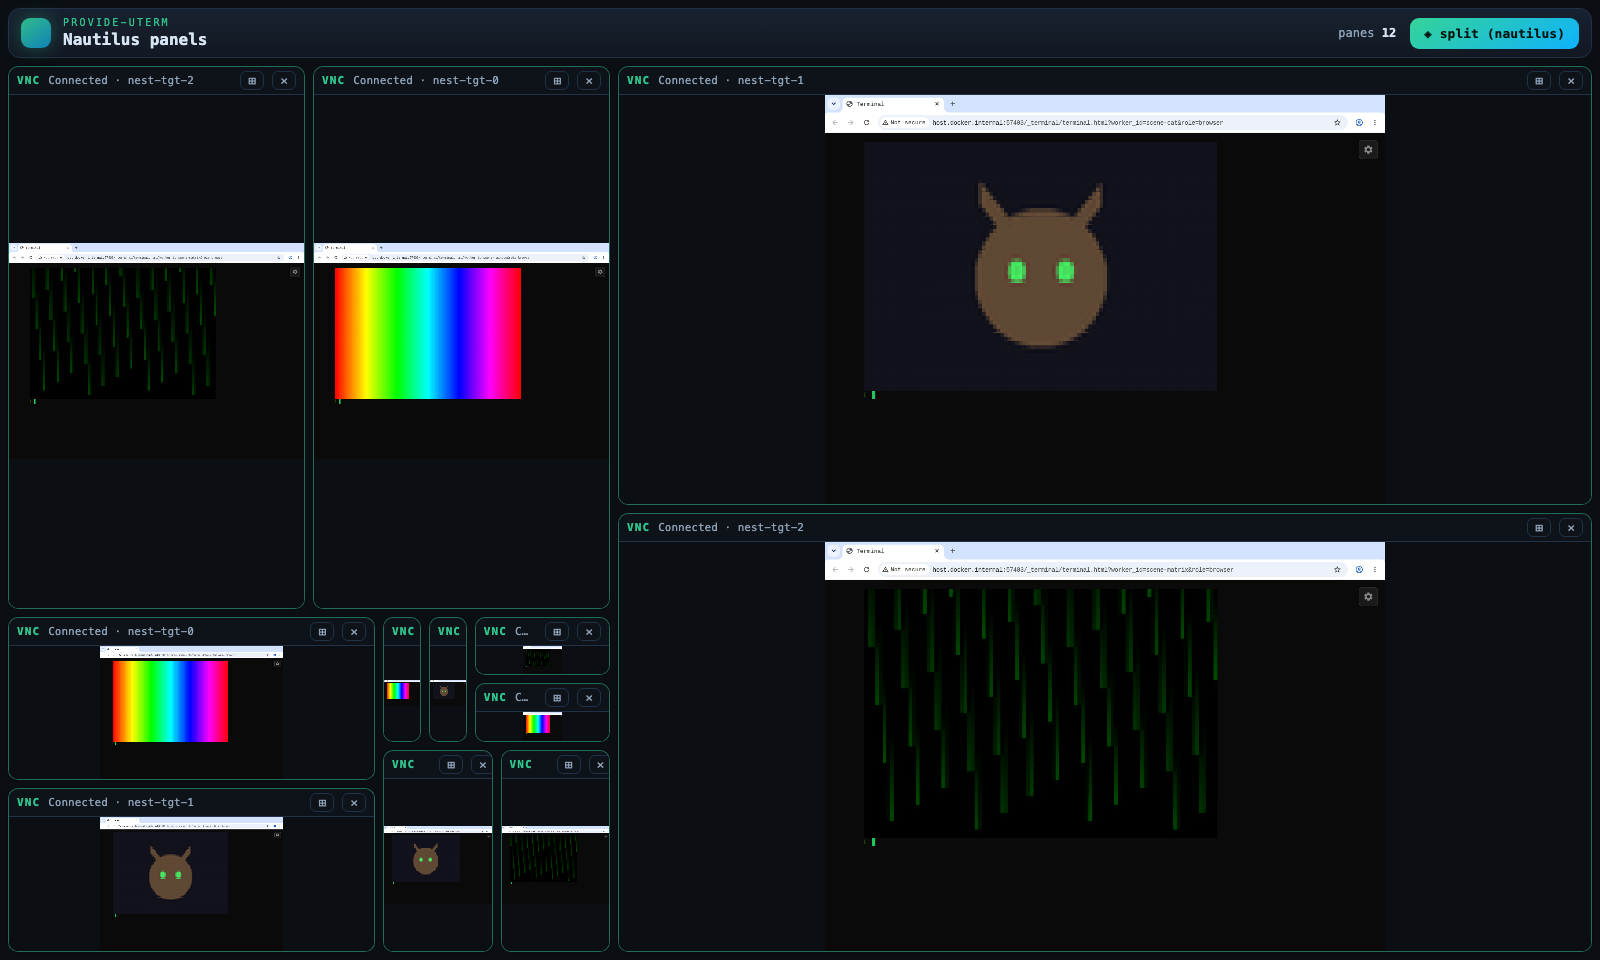
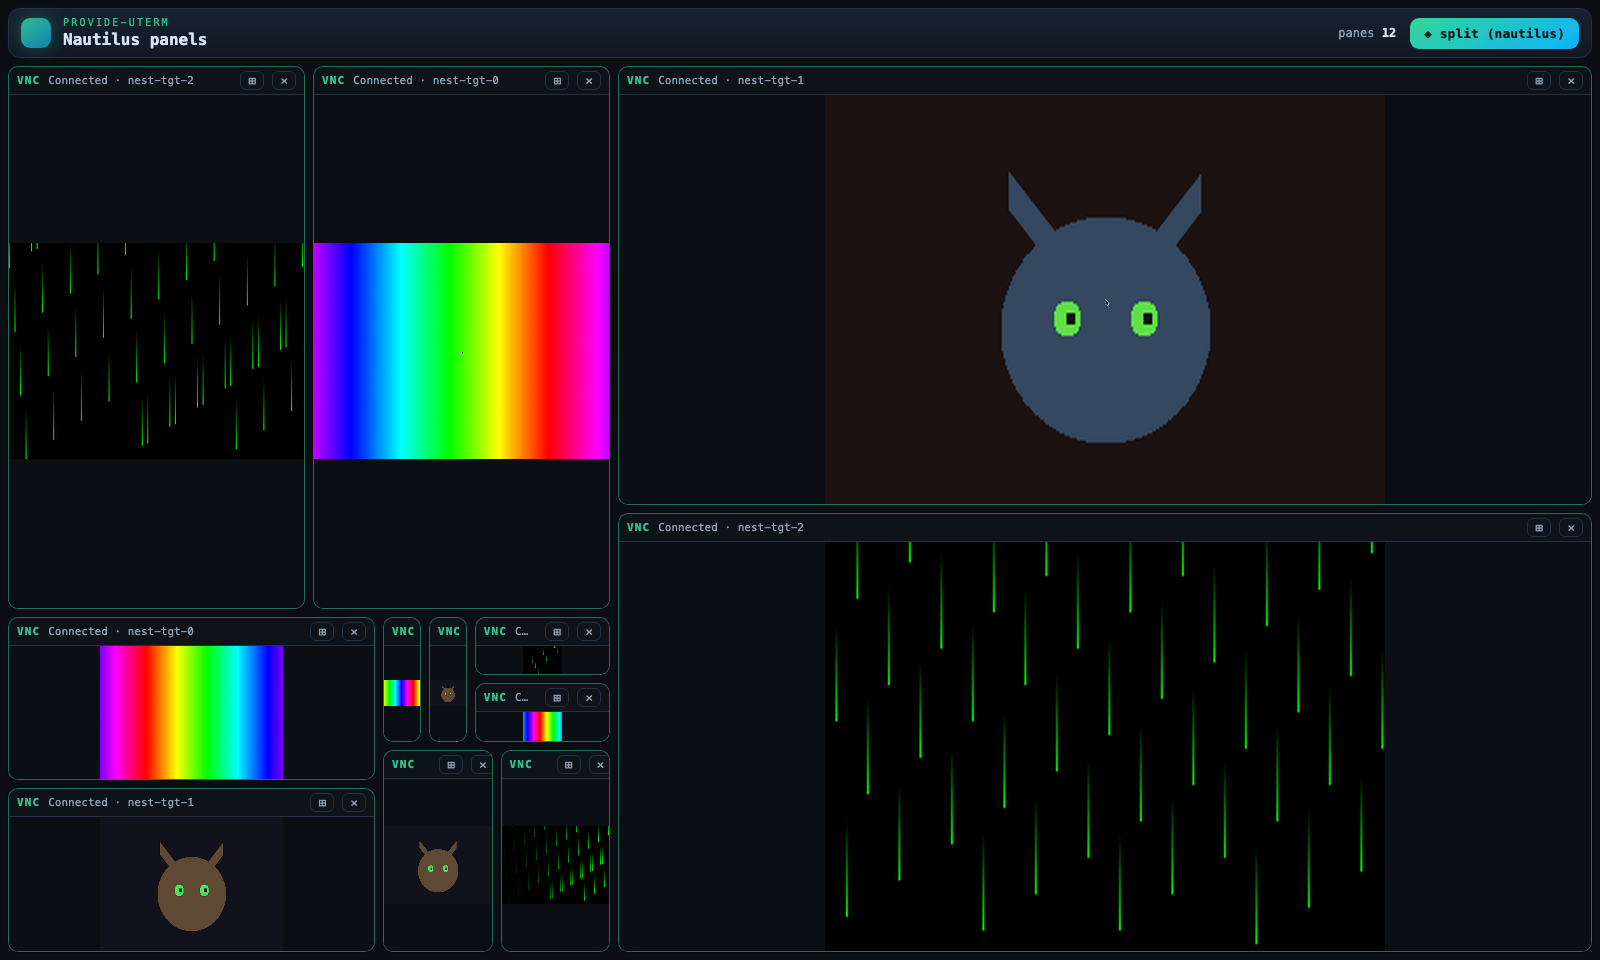
feat(demo): play distinct animated scenes via mpv in the nautilus VNC panes
Each lab now plays its scene GIF (rainbow / cat / matrix) with mpv, added
to the vnc-lab image and driven by a SCENE_MEDIA entrypoint branch. mpv
blits whole decoded frames to Xvfb, so x11vnc streams clean, tear-free
motion — unlike a nested Chromium (never presents animation to Xvfb) or a
software terminal (tears mid cell-draw, both investigated and rejected).
The recorder generates the GIFs, docker-cp's each into its lab, and waits
for all panes to finish connecting before the still. Combined with the
relay update-driver, the tiling now shows multiple distinct VNC feeds that
actually animate.

diff --git a/scripts/record_uterm_vnc_panels_demo.py b/scripts/record_uterm_vnc_panels_demo.py
@@ -3,14 +3,16 @@
 # SPDX-FileCopyrightText: Copyright (c) 2025-2026 provide.io llc. All rights reserved.
 # SPDX-License-Identifier: AGPL-3.0-or-later
 #
-"""Record the recursive "nautilus" tiling panels page with distinct scenes.
+"""Record the recursive "nautilus" tiling panels page with distinct live scenes.
 
-Each of the three lab RFB targets runs a *different* ushell session that has
-rendered a different full-screen scene (a rainbow gradient, a cat, a matrix
-rain) via the ``render`` command. The nautilus panes fan out across the three
-targets, so the tiling clearly shows multiple *distinct* VNC browsers in play —
-not the same terminal repeated. Panes shrink (font and all) as the spiral winds
-inward via noVNC's scale-viewport.
+Each of the three lab RFB targets natively plays a *different* animated scene (a
+rainbow gradient, a blinking cat, matrix rain) via mpv, which blits whole decoded
+frames to Xvfb — so x11vnc streams clean, tear-free motion to the already
+connected noVNC pane. (A nested Chromium never presents animation frames to Xvfb
+at all, and a software terminal tears mid-draw; mpv avoids both.) The nautilus
+panes fan out across the three targets, so the tiling shows multiple *distinct*
+VNC feeds that actually animate. Panes shrink as the spiral winds inward via
+noVNC's scale-viewport.
 
 Usage (repo root)::
 
@@ -26,7 +28,9 @@ import os
 import subprocess
 import sys
 import time
+from contextlib import suppress
 from pathlib import Path
+from typing import Any
 
 _SCRIPTS = Path(__file__).resolve().parent
 if str(_SCRIPTS) not in sys.path:
@@ -36,77 +40,137 @@ import prove_vnc_lab as vnc_lab  # noqa: E402
 import record_uterm_vnc_demo_video as base  # noqa: E402
 import record_uterm_vnc_nested_demo as nested  # noqa: E402
 
-# (session_id, display label, scene image filename). One per lab target so each
-# VNC pane shows a visibly different scene.
+# (id, display label, scene GIF filename). One per lab target so each VNC pane
+# shows a visibly different *animated* scene; mpv loops the GIF natively in the
+# lab, so the panes actually play.
 SCENES = [
-    ("scene-rainbow", "Rainbow", "rainbow.png"),
-    ("scene-cat", "Cat", "cat.png"),
-    ("scene-matrix", "Matrix", "matrix.png"),
+    ("scene-rainbow", "Rainbow", "rainbow.gif"),
+    ("scene-cat", "Cat", "cat.gif"),
+    ("scene-matrix", "Matrix", "matrix.gif"),
 ]
+
+# Animated-GIF geometry. mpv decodes the GIF and blits whole frames to X, so the
+# per-frame duration (≈14 fps) drives smooth, tear-free playback; mpv scales the
+# clip up to the lab framebuffer.
+_SCENE_W, _SCENE_H = 320, 180
+_SCENE_FRAMES = 16
+_SCENE_DURATION_MS = 70
+
+
+def _save_gif(frames: list[Any], path: Path) -> None:
+    """Write *frames* as a looping animated GIF at the shared scene cadence."""
+    frames[0].save(
+        path,
+        save_all=True,
+        append_images=frames[1:],
+        duration=_SCENE_DURATION_MS,
+        loop=0,
+        disposal=2,
+    )
+
+
+def _rainbow_frames() -> list[Any]:
+    """Hue sweep that scrolls one full cycle across the animation (looping)."""
+    from PIL import Image
+
+    w, h, n = _SCENE_W, _SCENE_H, _SCENE_FRAMES
+    out: list[Any] = []
+    for f in range(n):
+        img = Image.new("RGB", (w, h))
+        px = img.load()
+        phase = f / n
+        for x in range(w):
+            r, g, b = colorsys.hsv_to_rgb((x / w + phase) % 1.0, 1.0, 1.0)
+            col = (int(r * 255), int(g * 255), int(b * 255))
+            for y in range(h):
+                px[x, y] = col
+        out.append(img)
+    return out
+
+
+def _cat_frames() -> list[Any]:
+    """Cat face with green eyes: pupils slide side to side, with a mid-loop blink.
+
+    Every frame differs (moving pupils) so PIL keeps all 16 — smooth motion, not
+    a collapsed near-static GIF.
+    """
+    import math
+
+    from PIL import Image
+
+    w, h, n = _SCENE_W, _SCENE_H, _SCENE_FRAMES
+    cx, base_cy = w // 2, h // 2 + 8
+    out: list[Any] = []
+    for f in range(n):
+        img = Image.new("RGB", (w, h), (18, 18, 28))
+        px = img.load()
+        cy = base_cy + round(7 * math.sin(2 * math.pi * f / n))  # whole head bobs
+        for x in range(w):
+            for y in range(h):
+                if (x - cx) ** 2 + ((y - cy) * 1.2) ** 2 < 60**2:
+                    px[x, y] = (95, 72, 52)
+        for x in range(cx - 55, cx - 15):
+            for y in range(cy - 70, cy - 30):
+                if (x - (cx - 55)) < (y - (cy - 70)) < (x - (cx - 55)) + 18:
+                    px[x, y] = (95, 72, 52)
+        for x in range(cx + 15, cx + 55):
+            for y in range(cy - 70, cy - 30):
+                if ((cx + 55) - x) < (y - (cy - 70)) < ((cx + 55) - x) + 18:
+                    px[x, y] = (95, 72, 52)
+        blink = f % n in (7, 8)  # eyes shut mid-loop
+        pupil_dx = round(3 * math.sin(2 * math.pi * f / n))  # pupils track left↔right
+        for ex in (cx - 22, cx + 22):
+            for x in range(ex - 8, ex + 8):
+                for y in range(cy - 15, cy + 5):
+                    if blink:
+                        if abs(y - (cy - 5)) <= 1 and abs(x - ex) < 7:
+                            px[x, y] = (70, 225, 95)
+                        continue
+                    if (x - ex) ** 2 + (y - (cy - 5)) ** 2 < 8**2:
+                        px[x, y] = (70, 225, 95)
+                    if (x - (ex + pupil_dx)) ** 2 + (y - (cy - 5)) ** 2 < 3**2:
+                        px[x, y] = (12, 20, 14)  # dark pupil
+        out.append(img)
+    return out
+
+
+def _matrix_frames() -> list[Any]:
+    """Green rain whose columns fall (head y advances each frame, tail fades)."""
+    from PIL import Image
+
+    w, h, n = _SCENE_W, _SCENE_H, _SCENE_FRAMES
+    tail = 46
+    out: list[Any] = []
+    for f in range(n):
+        img = Image.new("RGB", (w, h), (0, 0, 0))
+        px = img.load()
+        for x in range(0, w, 6):
+            speed = 6 + (x // 6) % 5
+            head = ((x * 7) + f * speed * (h // n)) % (h + tail) - tail
+            for t in range(tail):
+                y = head - t
+                if 0 <= y < h:
+                    px[x, y] = (0, max(0, 255 - t * 6), 0)
+        out.append(img)
+    return out
 
 
 def _generate_scenes(out_dir: Path) -> None:
-    """Write three distinct scene images the ushell `render` command turns to ANSI."""
-    from PIL import Image
-
+    """Write three distinct *animated* GIF scenes mpv loops in each lab."""
     out_dir.mkdir(parents=True, exist_ok=True)
-    w, h = 320, 180
-    # Rainbow: smooth horizontal hue sweep.
-    rainbow = Image.new("RGB", (w, h))
-    rp = rainbow.load()
-    for x in range(w):
-        r, g, b = colorsys.hsv_to_rgb(x / w, 1.0, 1.0)
-        col = (int(r * 255), int(g * 255), int(b * 255))
-        for y in range(h):
-            rp[x, y] = col
-    rainbow.save(out_dir / "rainbow.png")
-    # Cat: a simple colour cat face on a dark ground.
-    cat = Image.new("RGB", (w, h), (18, 18, 28))
-    cp = cat.load()
-    cx, cy = w // 2, h // 2 + 8
-    for x in range(w):
-        for y in range(h):
-            if (x - cx) ** 2 + ((y - cy) * 1.2) ** 2 < 60**2:
-                cp[x, y] = (95, 72, 52)
-    for x in range(cx - 55, cx - 15):
-        for y in range(cy - 70, cy - 30):
-            if (x - (cx - 55)) < (y - (cy - 70)) < (x - (cx - 55)) + 18:
-                cp[x, y] = (95, 72, 52)
-    for x in range(cx + 15, cx + 55):
-        for y in range(cy - 70, cy - 30):
-            if ((cx + 55) - x) < (y - (cy - 70)) < ((cx + 55) - x) + 18:
-                cp[x, y] = (95, 72, 52)
-    for ex in (cx - 22, cx + 22):
-        for x in range(ex - 8, ex + 8):
-            for y in range(cy - 15, cy + 5):
-                if (x - ex) ** 2 + (y - (cy - 5)) ** 2 < 8**2:
-                    cp[x, y] = (70, 225, 95)
-    cat.save(out_dir / "cat.png")
-    # Matrix: green rain columns.
-    matrix = Image.new("RGB", (w, h), (0, 0, 0))
-    mp = matrix.load()
-    for x in range(0, w, 6):
-        hlen = (x * 7) % h
-        for y in range(hlen):
-            mp[x, y] = (0, max(0, 255 - (hlen - y) * 4), 0)
-    matrix.save(out_dir / "matrix.png")
+    _save_gif(_rainbow_frames(), out_dir / "rainbow.gif")
+    _save_gif(_cat_frames(), out_dir / "cat.gif")
+    _save_gif(_matrix_frames(), out_dir / "matrix.gif")
 
 
 def _write_panels_config(path: Path, *, host: str, port: int) -> None:
-    """Server config: three ushell scene sessions + N VNC-lease workers + N targets."""
+    """Server config: N VNC-lease workers + N graphical (RFB) targets.
+
+    The scenes are played natively inside each lab (see ``_start_scene_lab``), so
+    the server only needs the lease workers the panes hijack and the RFB targets
+    (the lab containers) it relays to — no ushell scene sessions.
+    """
     blocks: list[str] = []
-    for sid, label, _fname in SCENES:
-        blocks.append(
-            f"""
-[[sessions]]
-session_id = "{sid}"
-display_name = "{label}"
-connector_type = "ushell"
-input_mode = "hijack"
-auto_start = true
-tags = ["scene"]
-"""
-        )
     for wk in nested.NEST_LEASE_WORKERS:
         blocks.append(
             f"""
@@ -166,30 +230,53 @@ block_private_connector_targets = false
     path.write_text(body, encoding="utf-8")
 
 
-def _drive_render(base_url: str, headers: dict[str, str], session: str, scene_path: Path) -> None:
-    """Render *scene_path* into the ushell scene session as full-screen ANSI.
+def _start_scene_lab(*, name: str, host_plain: int, gif_path: Path) -> None:
+    """Start one lab container that plays *gif_path* natively via mpv.
 
-    ushell reports ``input_mode=open`` on hello, so switch it to hijack first,
-    then acquire a lease and feed the ``render`` command.
+    ``SCENE_MEDIA`` flips the entrypoint into scene mode (mpv loop) instead of
+    launching Chromium. The clip is ``docker cp``-ed into ``/scene`` after boot
+    rather than bind-mounted, because host scratchpad/evidence paths are not
+    always shareable with the Docker VM; the entrypoint waits for it to land.
     """
-    base.http_json("POST", f"{base_url}/worker/{session}/input_mode", headers=headers, body={"input_mode": "hijack"})
-    hid = nested._acquire_lease(base_url, headers, session)
-    # ushell render --loop: file:// path on the server host → truecolor ANSI
-    # frames. Looping keeps the scene on screen (no trailing prompt), so a fresh
-    # browser/RFB viewer's cached snapshot stays the rendered scene.
-    base.send_shell_keys(
-        base_url,
-        headers,
-        hid,
-        f"render --loop --cols 96 --rows 30 file://{scene_path.resolve()}\r",
-        session=session,
+    vnc_lab._remove_container(name)
+    result = subprocess.run(
+        [
+            "docker",
+            "run",
+            "-d",
+            "--name",
+            name,
+            "--shm-size",
+            vnc_lab.DEFAULT_SHM,
+            "--add-host=host.docker.internal:host-gateway",
+            "-p",
+            f"{host_plain}:{vnc_lab.RFB_PLAIN_PORT}",
+            "-e",
+            "SCENE_MEDIA=/scene/scene.gif",
+            "-e",
+            f"GEOMETRY={nested.LAB_GEOMETRY}",
+            vnc_lab.IMAGE_NAME,
+        ],
+        capture_output=True,
+        text=True,
+        timeout=60,
+        check=False,
     )
-    # Force the worker to re-snapshot so the hub caches the rendered scene as the
-    # session's last_snapshot. Without this a browser/RFB viewer connecting later
-    # gets the stale connect-time prompt snapshot, not the scene (render emits
-    # `term` frames, which don't refresh last_snapshot).
-    time.sleep(0.4)
-    base.http_json("GET", f"{base_url}/worker/{session}/hijack/{hid}/snapshot", headers=headers)
+    if result.returncode != 0:
+        raise RuntimeError(f"docker run {name} failed: {result.stderr.strip()[:400]}")
+    # Create /scene and copy the clip in (docker cp needs no host file-sharing).
+    subprocess.run(
+        ["docker", "exec", name, "mkdir", "-p", "/scene"], capture_output=True, text=True, timeout=30, check=False
+    )
+    cp = subprocess.run(
+        ["docker", "cp", str(gif_path.resolve()), f"{name}:/scene/scene.gif"],
+        capture_output=True,
+        text=True,
+        timeout=60,
+        check=False,
+    )
+    if cp.returncode != 0:
+        raise RuntimeError(f"docker cp scene clip to {name} failed: {cp.stderr.strip()[:400]}")
 
 
 def main(argv: list[str] | None = None) -> int:
@@ -213,6 +300,7 @@ def main(argv: list[str] | None = None) -> int:
 
     scenes_dir = evidence / "scenes"
     _generate_scenes(scenes_dir)
+    gif_paths = [scenes_dir / fname for _sid, _label, fname in SCENES]
 
     server_port = base._free_port()
     cfg = evidence / "panels-server.toml"
@@ -238,33 +326,17 @@ def main(argv: list[str] | None = None) -> int:
         base.prove.wait_http(f"{base_url}/readyz", timeout=60.0)
         lines.append(f"server_ready={base_url}")
 
-        # Wait for every scene session to connect, then render its scene.
-        for sid, _label, fname in SCENES:
-            connected = False
-            for _ in range(80):
-                st, body = base.http_json("GET", f"{base_url}/api/sessions/{sid}", headers=headers)
-                if st == 200 and isinstance(body, dict) and body.get("connected"):
-                    connected = True
-                    break
-                time.sleep(0.15)
-            if not connected:
-                raise RuntimeError(f"scene session {sid} never connected")
-            _drive_render(base_url, headers, sid, scenes_dir / fname)
-        time.sleep(1.5)
-        lines.append("scenes_rendered=ok")
-
-        # Each lab views a *different* scene session so the panes are distinct.
-        hids = [nested._acquire_lease(base_url, headers, w) for w in nested.NEST_LEASE_WORKERS]
-        for (name, port), (sid, _label, _fname) in zip(
-            zip(lab_names, nested.NEST_PORTS, strict=True), SCENES, strict=True
-        ):
-            demo_url = (
-                f"http://{base._HOST_FROM_DOCKER}:{server_port}/_terminal/terminal.html?worker_id={sid}&role=browser"
-            )
-            nested._start_nested_lab(name=name, demo_url=demo_url, host_plain=port)
+        # Each lab natively plays a *different* scene (rainbow / cat / matrix) via
+        # mpv, so the VNC panes are visibly distinct AND animate cleanly.
+        for (name, port), gif_path in zip(zip(lab_names, nested.NEST_PORTS, strict=True), gif_paths, strict=True):
+            _start_scene_lab(name=name, host_plain=port, gif_path=gif_path)
             if not nested._wait_lab_rfb(name):
                 raise RuntimeError(f"lab {name} RFB never ready")
+        lines.append("scene_labs_ready=ok")
         time.sleep(3.0)
+
+        # Leases the panes hijack to view each RFB target.
+        hids = [nested._acquire_lease(base_url, headers, w) for w in nested.NEST_LEASE_WORKERS]
 
         # Panels VNC pool = the three distinct-scene targets (fan-out).
         vnc_pool = ",".join(
@@ -273,6 +345,7 @@ def main(argv: list[str] | None = None) -> int:
         panels_url = f"{base_url}/_terminal/panels.html?vnc={vnc_pool}"
         lines.append(f"panels_url={panels_url}")
 
+        from playwright.sync_api import TimeoutError as PlaywrightTimeoutError
         from playwright.sync_api import sync_playwright
 
         raw_dir = evidence / "panels-video-raw"
@@ -308,7 +381,18 @@ def main(argv: list[str] | None = None) -> int:
             for _ in range(max(0, int(args.splits))):
                 page.click("#panels-nautilus")
                 page.wait_for_timeout(3000)
-            page.wait_for_timeout(4000)
+            # Let every pane finish connecting (12 noVNC sessions over 3 targets)
+            # so the still shows live scenes, not "Connecting…"; bounded fallback.
+            with suppress(PlaywrightTimeoutError):
+                page.wait_for_function(
+                    "() => { const p = window.utermPanels;"
+                    " if (!p) return false;"
+                    " const total = p.leafCount;"
+                    " const ok = document.querySelectorAll('.pane-vnc[data-state=\"connected\"]').length;"
+                    " return total > 0 && ok >= total; }",
+                    timeout=20_000,
+                )
+            page.wait_for_timeout(1500)
             page.screenshot(path=str(full_png), full_page=True)
             metrics.update(
                 page.evaluate(
